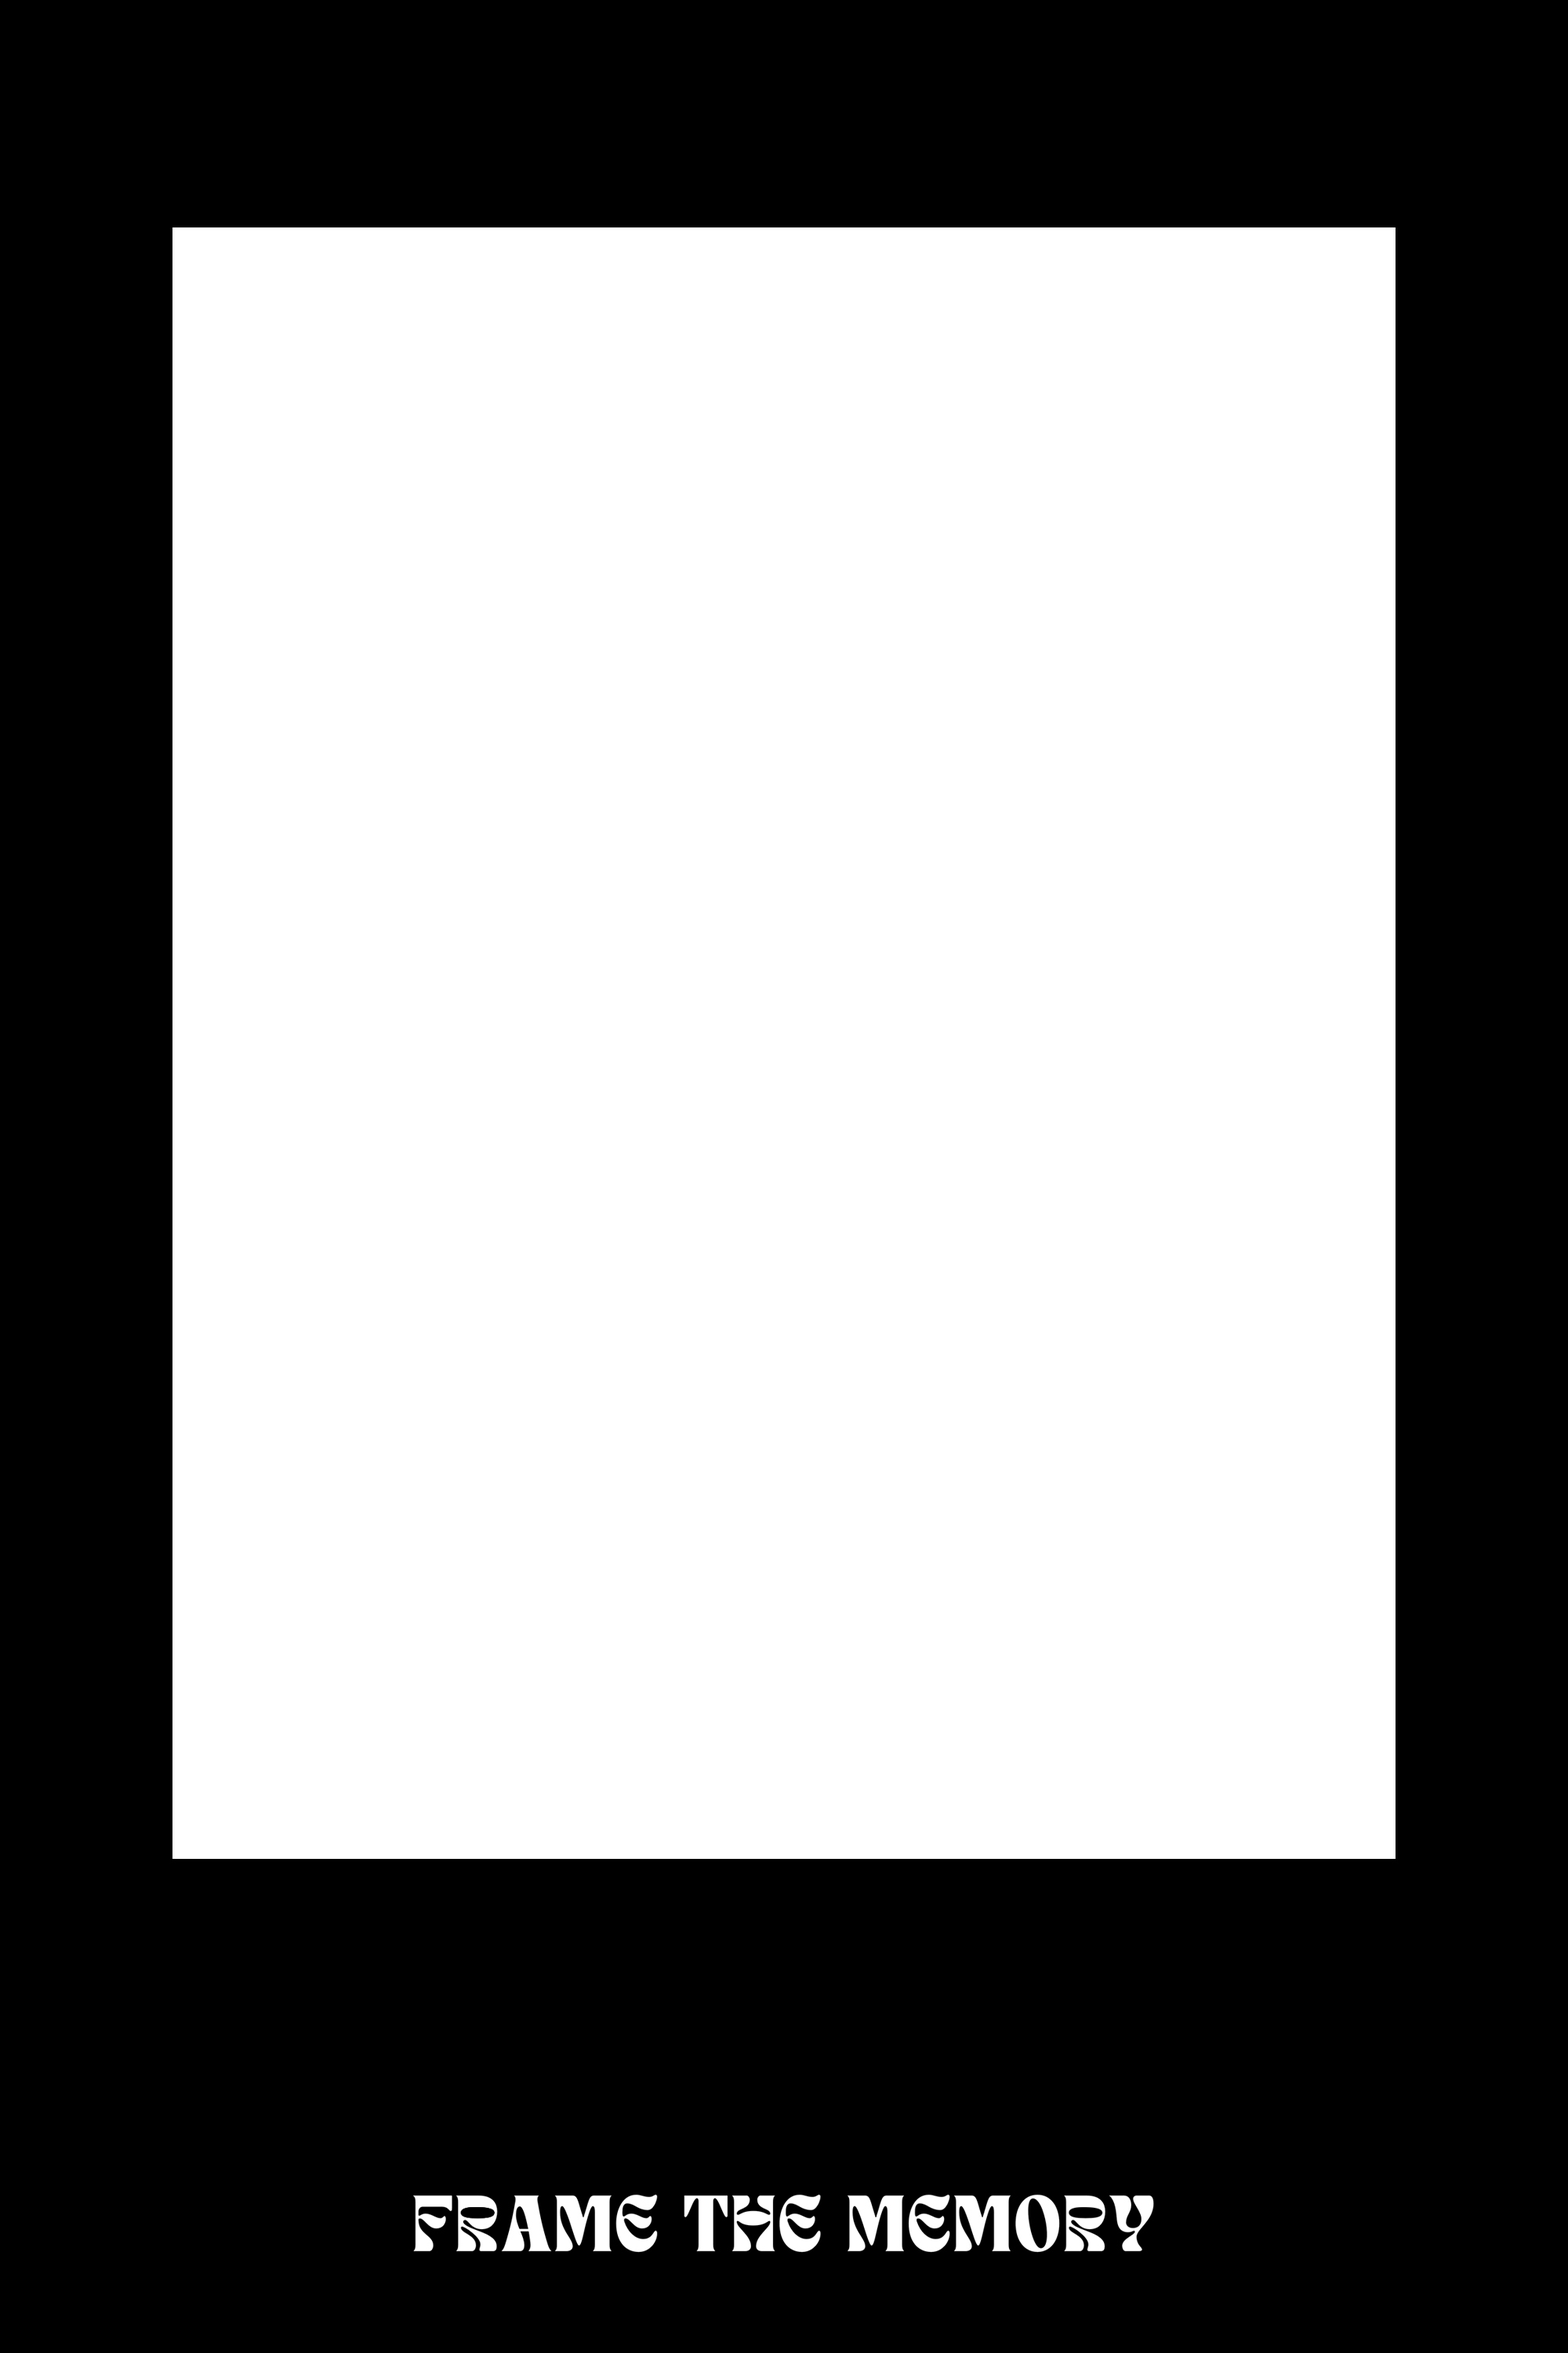
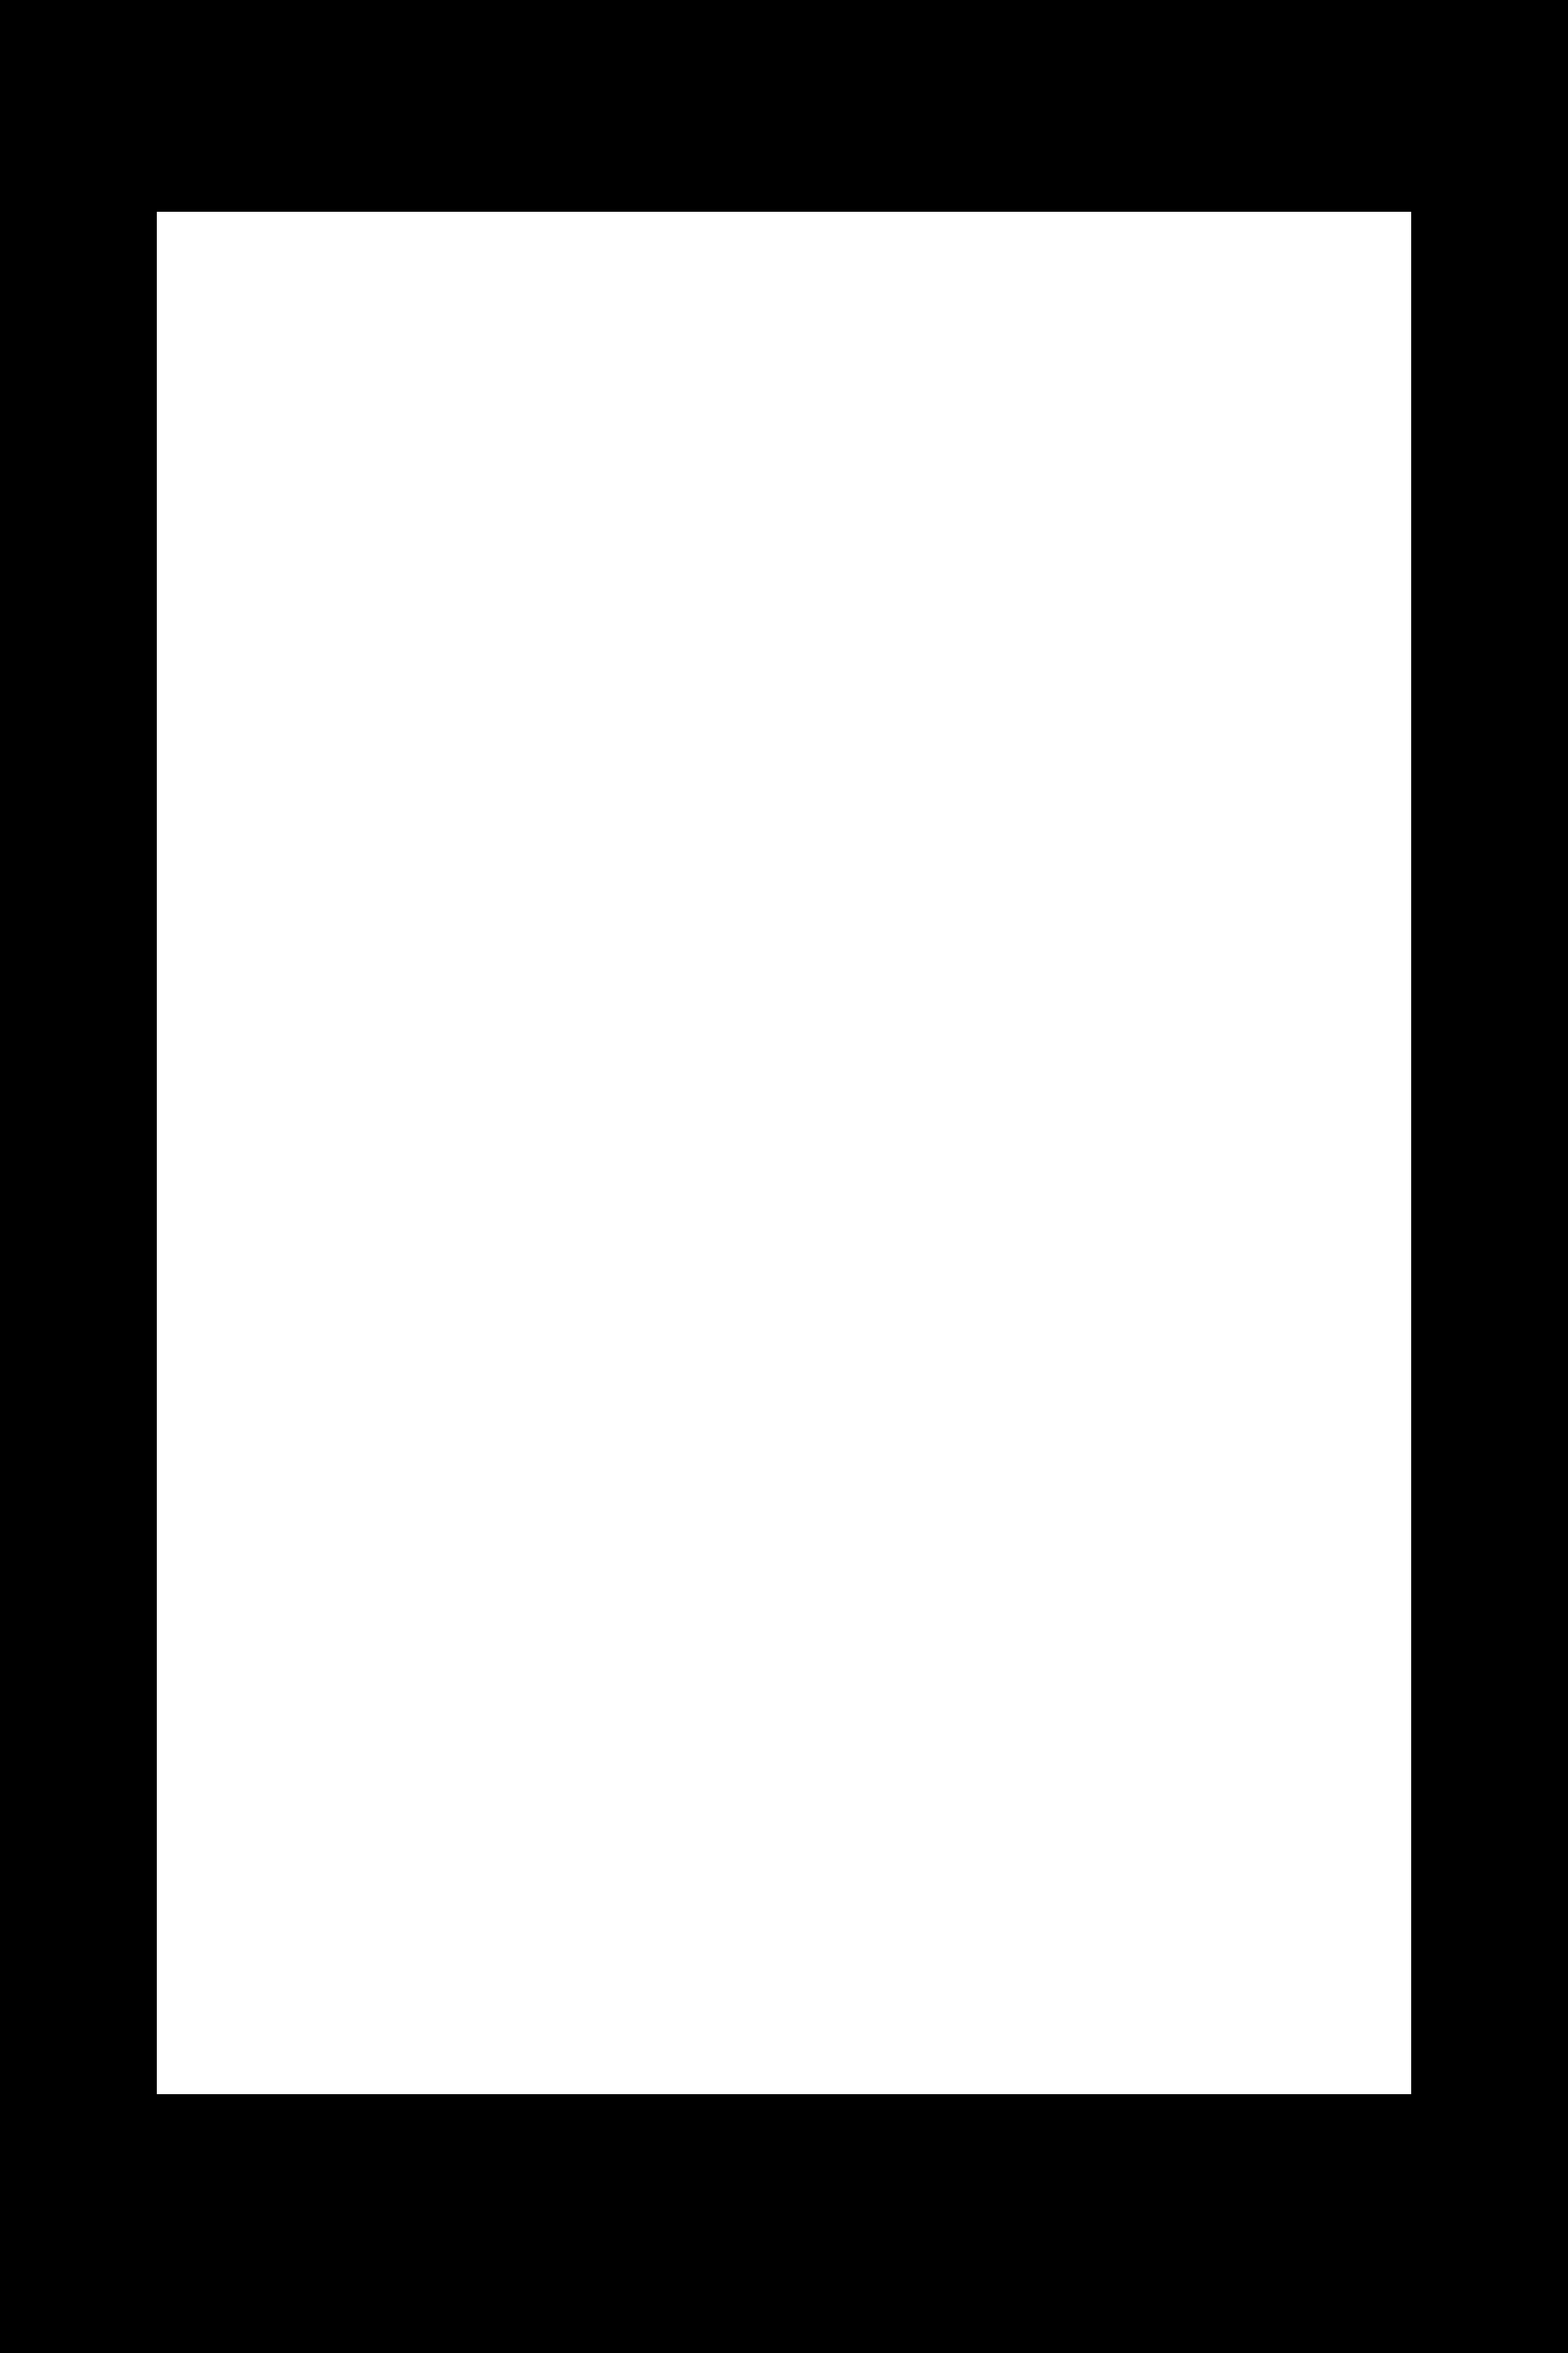
[UPDATE] image rate update 1->6:4 2->6:9 4->4:3

Changed region(s): [[0.093, 0.093, 0.899, 0.899], [0.248, 0.93, 0.744, 0.961]]

diff --git a/cloudWeb/lab/NCutsGen/NCutsGen.py b/cloudWeb/lab/NCutsGen/NCutsGen.py
@@ -24,23 +24,25 @@ class NCutsGen:
         # self.bgMarginBottomH=400
         # # cross margin
         # self.bonusMargin=150
-        # 4cuts image 4:3
+        # 4cuts image 6:9
         if self.pLstLen==1:
-            self.fgH=2080
-            self.fgW=1560
+            # 6:4
+            self.fgH=2400
+            self.fgW=1600
             # bg margin
-            self.bgMarginTopH = 290
-            self.bgMarginW = 220
+            self.bgMarginTopH = 270
+            self.bgMarginW = 200
             self.bgMarginBottomH = 400
             # cross margin
             # self.bonusMargin = 150
         if self.pLstLen==2:
-            self.fgH=1180
-            self.fgW=1574
+            # 6:9
+            self.fgH=1133
+            self.fgW=1700
             # bg margin
             self.bgMarginTopH = 150
-            self.bgMarginW = 213
-            self.bgMarginBottomH = 400
+            self.bgMarginW = 150
+            self.bgMarginBottomH = 480
             # cross margin
             self.bonusMargin = 150
         if self.pLstLen==3:
@@ -53,11 +55,12 @@ class NCutsGen:
             # cross margin
             self.bonusMargin = 150
         if self.pLstLen==4:
-            self.fgH=1040
-            self.fgW=780
+            # 4:3
+            self.fgH=1080
+            self.fgW=810
             # bg margin
             self.bgMarginTopH = 200
-            self.bgMarginW = 130
+            self.bgMarginW = 150
             self.bgMarginBottomH = 400
             # cross margin
             self.bonusMargin = 150
@@ -73,18 +76,18 @@ class NCutsGen:
                 except Exception as e:
                     print(e)
                     continue
-
+        self.bg = cv2.imread("static/lab/ncuts/bg.jpg")
         if self.pLstLen==1:
-            self.bg=cv2.imread("static/lab/ncuts/bg1.jpg")
+            # self.bg=cv2.imread("static/lab/ncuts/bg1.jpg")
             self.genedImg = self.putImage1()
         elif self.pLstLen == 2:
-            self.bg=cv2.imread("static/lab/ncuts/bg2.jpg")
+            # self.bg=cv2.imread("static/lab/ncuts/bg2.jpg")
             self.genedImg = self.putImage2()
         elif self.pLstLen == 3:
-            self.bg=cv2.imread("static/lab/ncuts/bg3.jpg")
+            # self.bg=cv2.imread("static/lab/ncuts/bg3.jpg")
             self.genedImg = self.putImage3()
         elif self.pLstLen == 4:
-            self.bg=cv2.imread("static/lab/ncuts/bg4.jpg")
+            # self.bg=cv2.imread("static/lab/ncuts/bg4.jpg")
             self.genedImg = self.putImage4()
 
         gen = SongRecByAi_gemini_spotify.SongRecByAi(self.imgGenPath,qrC,qrBg)
